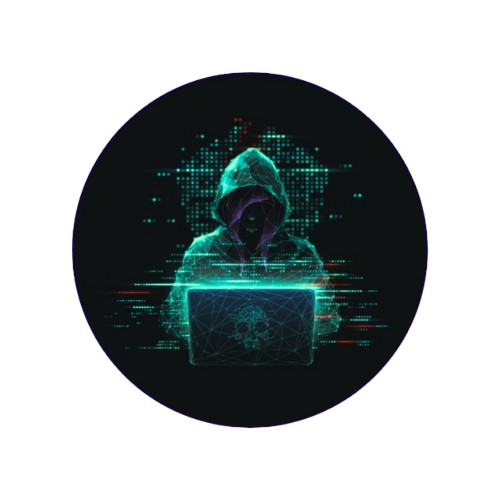
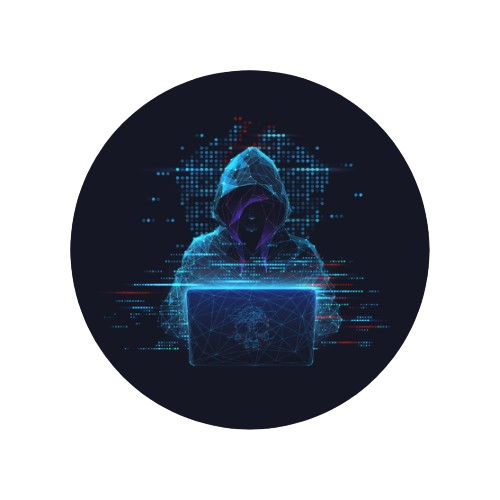
1st

diff --git a/src/data/eventsData.js b/src/data/eventsData.js
@@ -118,7 +118,7 @@ const eventsData = [
     name: "Metacortex",
     tagline: "Decode,Defend,Dominate",
     logo: "./Images/events/cyber.png",
-    bg:"./Images/eventbg/cyberbg.jpg",
+    bg:"./Images/eventbg/cyberbg2.jpg",
     description:
       "Metacortex denotes a cyber event centered on data theft. CYBER SECURITY is the practice of shielding critical systems and sensitive data from digital attacks. Cyber security measures are devised to tackle potential threats.",
     rules: [
